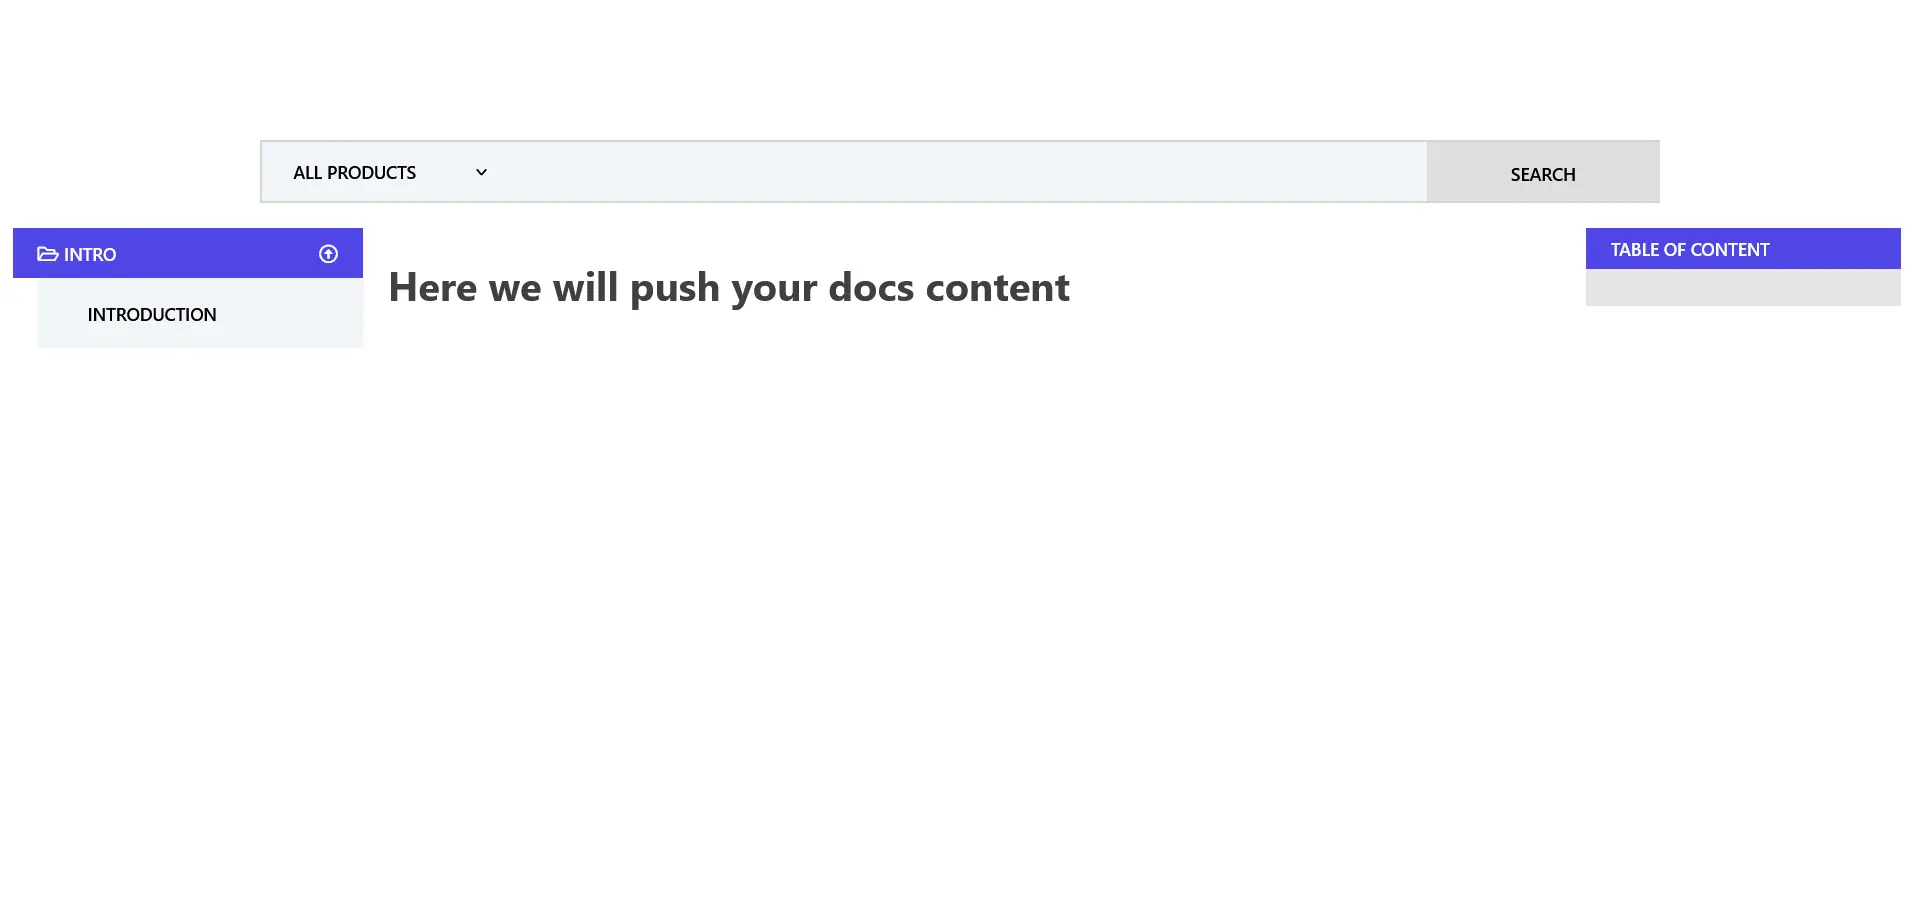
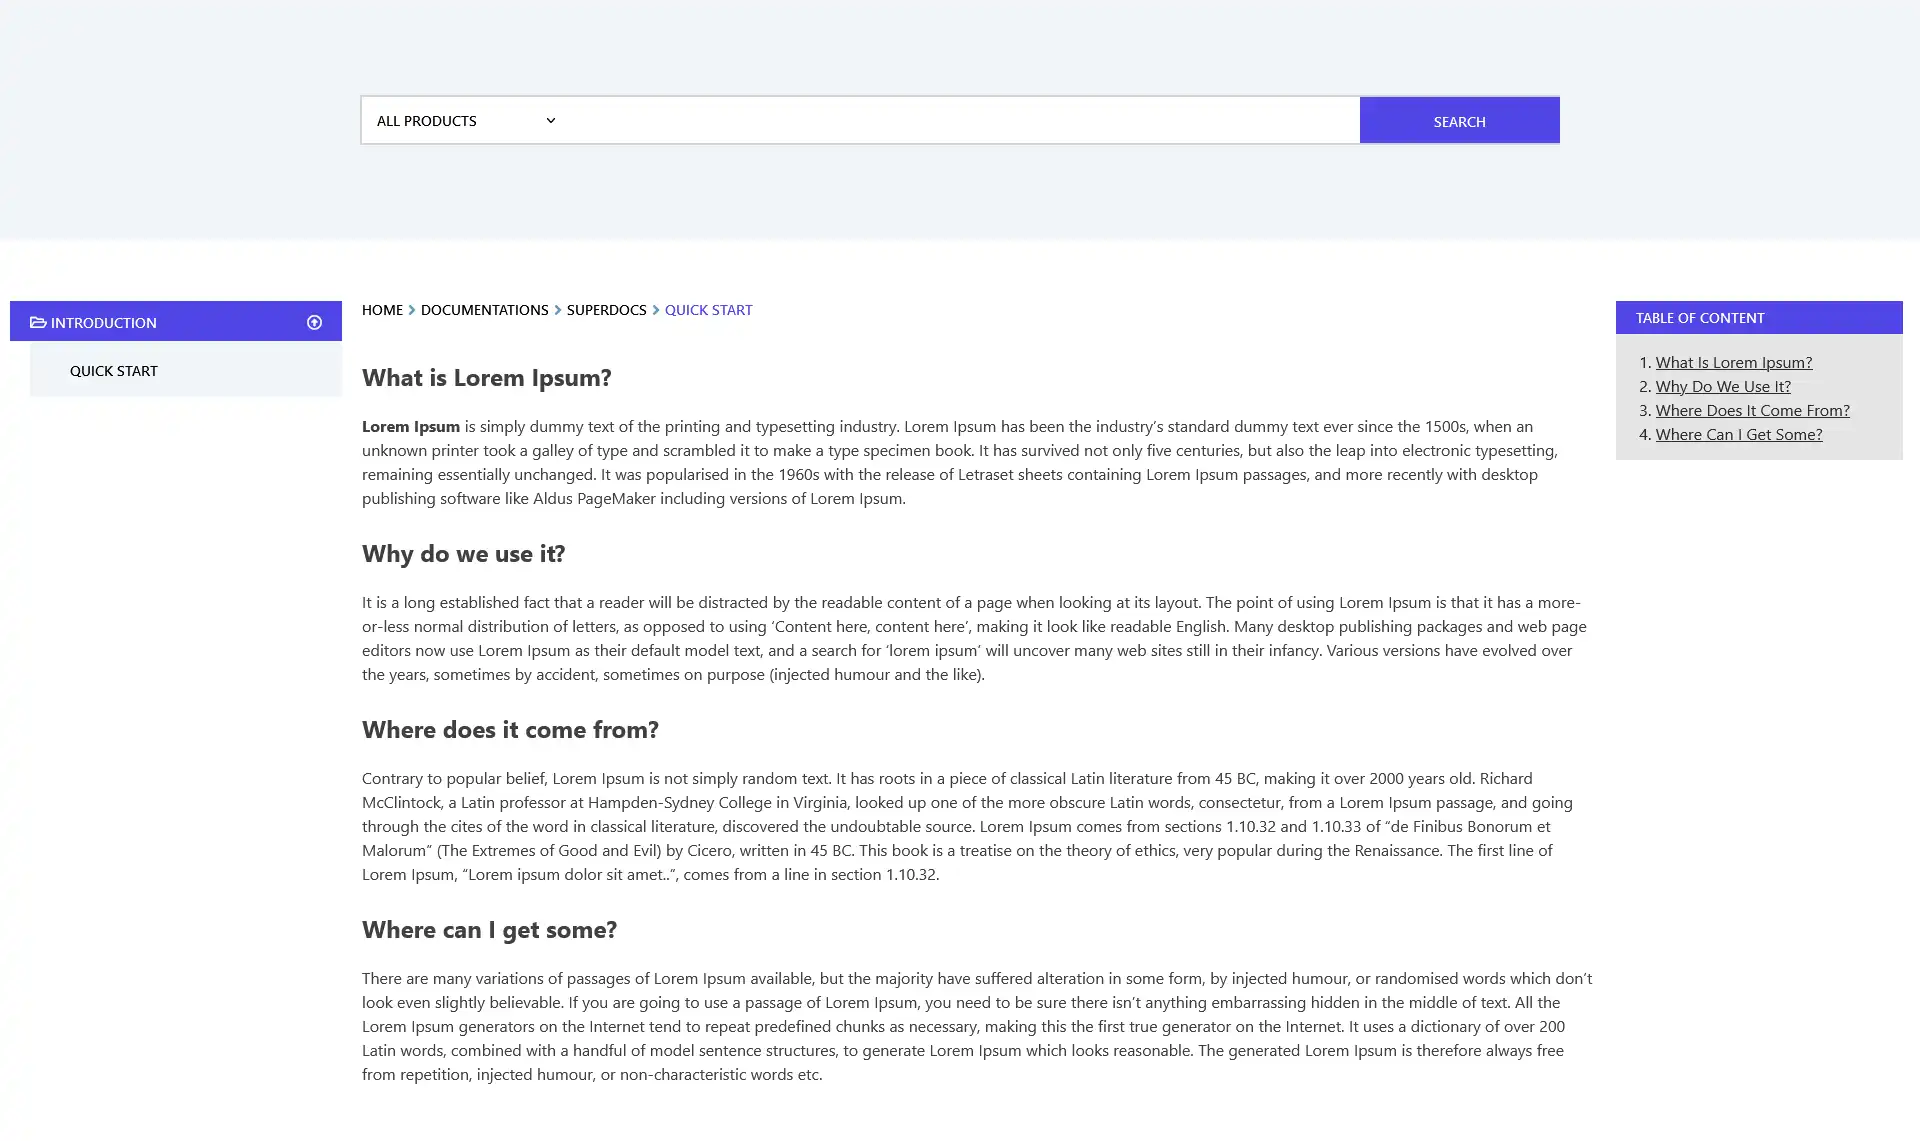
fixed table of content widget issue

diff --git a/resources/js/widgets.js b/resources/js/widgets.js
@@ -120,10 +120,17 @@
 		}
 		let orderList = tableOfContent.find('ol');
 		orderList.html('');
-		$('.elementor-heading-title').each(function () {
+
+		$('.elementor-widget-superdocs-content').find(tags.join(", ")).each(function() {
 			let tag = $(this);
-			if (tags.includes(tag.prop("tagName"))) {
-				orderList.append('<li>' + tag.html() + '</li>');
+			let id  = tag.attr('id');
+			if(id !== undefined) {
+				orderList.append('<li><a href="#'+id+'">' + $(this).html() + '</a></li>');
+			} else {
+				id = tag.closest('.elementor-widget-heading').attr('id');
+				if(id !== undefined) {
+					orderList.append('<li><a href="#'+id+'">' + $(this).html() + '</a></li>');
+				}
 			}
 		})
 	});

diff --git a/resources/sass/widgets/_search.scss b/resources/sass/widgets/_search.scss
@@ -39,7 +39,9 @@
 					ul {
 						display: flex;
 						flex-direction: column;
-
+						padding: 0;
+						margin: 0;
+						list-style: none;
 						a {
 							display: inline-flex;
 							width: 100%;

diff --git a/enqueues/admin-scripts.php b/enqueues/admin-scripts.php
@@ -10,14 +10,14 @@ if ( wp_commander_is_admin_page( 'edit', ['post_type' => superdocs_post_type()] 
 }
 
 wp_enqueue_script( 'jquery-ui-sortable' );
-wp_enqueue_script( 'doatkolom-ui-focus-' . $application::$config['namespace'], $application->get_root_url() . 'vendor/doatkolom/ui/assets/js/alpinejs-focus.min.js', [], time() );
-wp_enqueue_script( 'doatkolom-ui-' . $application::$config['namespace'] . '-defer', $application->get_root_url() . 'vendor/doatkolom/ui/assets/js/alpinejs.min.js', [], time() );
-wp_enqueue_script( 'doatkolom-ui-core-', $application->get_root_url() . 'vendor/doatkolom/ui/assets/js/doatkolom-ui.js', [], time() );
-wp_enqueue_script( 'doatkolom-ui-collapse-' . $application::$config['namespace'], $application->get_root_url() . 'vendor/doatkolom/ui/assets/js/alpinejs-collapse.min.js', [], time() );
+wp_enqueue_script( 'doatkolom-ui-focus-' . $application::$config['namespace'], $application->get_root_url() . 'vendor/doatkolom/ui/assets/js/alpinejs-focus.min.js', [], superdocs_version() );
+wp_enqueue_script( 'doatkolom-ui-' . $application::$config['namespace'] . '-defer', $application->get_root_url() . 'vendor/doatkolom/ui/assets/js/alpinejs.min.js', [], superdocs_version() );
+wp_enqueue_script( 'doatkolom-ui-core-', $application->get_root_url() . 'vendor/doatkolom/ui/assets/js/doatkolom-ui.js', [], superdocs_version() );
+wp_enqueue_script( 'doatkolom-ui-collapse-' . $application::$config['namespace'], $application->get_root_url() . 'vendor/doatkolom/ui/assets/js/alpinejs-collapse.min.js', [], superdocs_version() );
 
-wp_enqueue_style( 'doatkolom-ui-tailwind' . $this->application::$config['namespace'], $this->application->get_root_url() . 'vendor/doatkolom/ui/assets/css/app.css', [], time() );
-wp_enqueue_style( 'superdocs-tailwind', $application->get_root_url() . 'assets/css/app.css', [], time() );
+wp_enqueue_style( 'doatkolom-ui-tailwind' . $this->application::$config['namespace'], $this->application->get_root_url() . 'vendor/doatkolom/ui/assets/css/app.css', [], superdocs_version() );
+wp_enqueue_style( 'superdocs-tailwind', $application->get_root_url() . 'assets/css/app.css', [], superdocs_version() );
 
 if ( wp_commander_is_admin_page( 'edit', ['post_type' => superdocs_template_post_type()] ) ) {
-    wp_enqueue_script( 'superdocs-template-js-' . $application::$config['namespace'] . '-defer', $application->get_root_url() . '/assets/js/admin/template.js', ['jquery'], time(), true );
+    wp_enqueue_script( 'superdocs-template-js-' . $application::$config['namespace'] . '-defer', $application->get_root_url() . '/assets/js/admin/template.js', ['jquery'], superdocs_version(), true );
 }

diff --git a/app/Widgets/NextPrev.php b/app/Widgets/NextPrev.php
@@ -839,7 +839,7 @@ class NextPrev extends Widget_Base
                     </a>
             <?php } else { ?>
                 <?php if(is_object($links['prev'])): ?>
-                    <a class="link prev" href="<?php echo get_the_permalink($links['prev'])?>">
+                    <a class="link prev" href="<?php wp_commander_render(get_the_permalink($links['prev']))?>">
                         <?php if( array_intersect($settings['superdocs_link_show_element'], ['direction_title', 'doc_title']) ): ?>
                             <div class="title">
                                 <?php if(in_array('direction_title', $settings['superdocs_link_show_element'])): ?>
@@ -860,7 +860,7 @@ class NextPrev extends Widget_Base
                     </a>
                 <?php endif; ?>
                 <?php if(is_object($links['next'])): ?>
-                    <a class="link next" href="<?php echo get_the_permalink($links['next'])?>">
+                    <a class="link next" href="<?php wp_commander_render(get_the_permalink($links['next']))?>">
                         <?php if( array_intersect($settings['superdocs_link_show_element'], ['direction_title', 'doc_title']) ): ?>
                             <div class="title">
                                 <?php if(in_array('direction_title', $settings['superdocs_link_show_element'])): ?>

diff --git a/app/Providers/ElementorWidgetServicerProvider.php b/app/Providers/ElementorWidgetServicerProvider.php
@@ -45,8 +45,8 @@ class ElementorWidgetServicerProvider extends ServiceProvider
      */
     public function action_after_enqueue_scripts()
     {
-        wp_enqueue_script( 'superdocs-elementor-script', $this->application->get_root_url() . 'assets/js/widgets.js', ['jquery', 'elementor-frontend'], $this->application::$config['version'] );
-        wp_enqueue_style( 'superdocs-elementor-style', $this->application->get_root_url() . 'assets/css/widgets.css', [], $this->application::$config['version'] );
+        wp_enqueue_script( 'superdocs-elementor-script', $this->application->get_root_url() . 'assets/js/widgets.js', ['jquery', 'elementor-frontend'], superdocs_version() );
+        wp_enqueue_style( 'superdocs-elementor-style', $this->application->get_root_url() . 'assets/css/widgets.css', [], superdocs_version() );
     }
 
     /**

diff --git a/enqueues/frontend-scripts.php b/enqueues/frontend-scripts.php
@@ -1,5 +1,7 @@
 <?php
 
+use SuperDocs\Bootstrap\Application;
+
 /**
  * @var Application $application
  */
